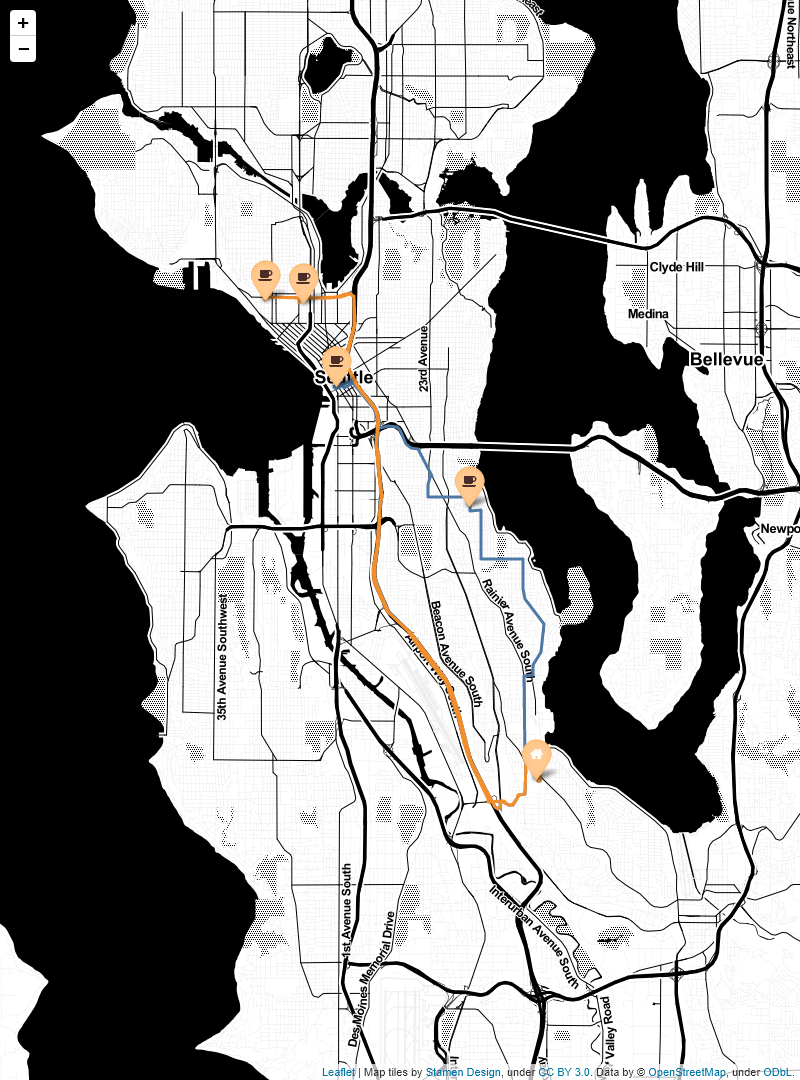
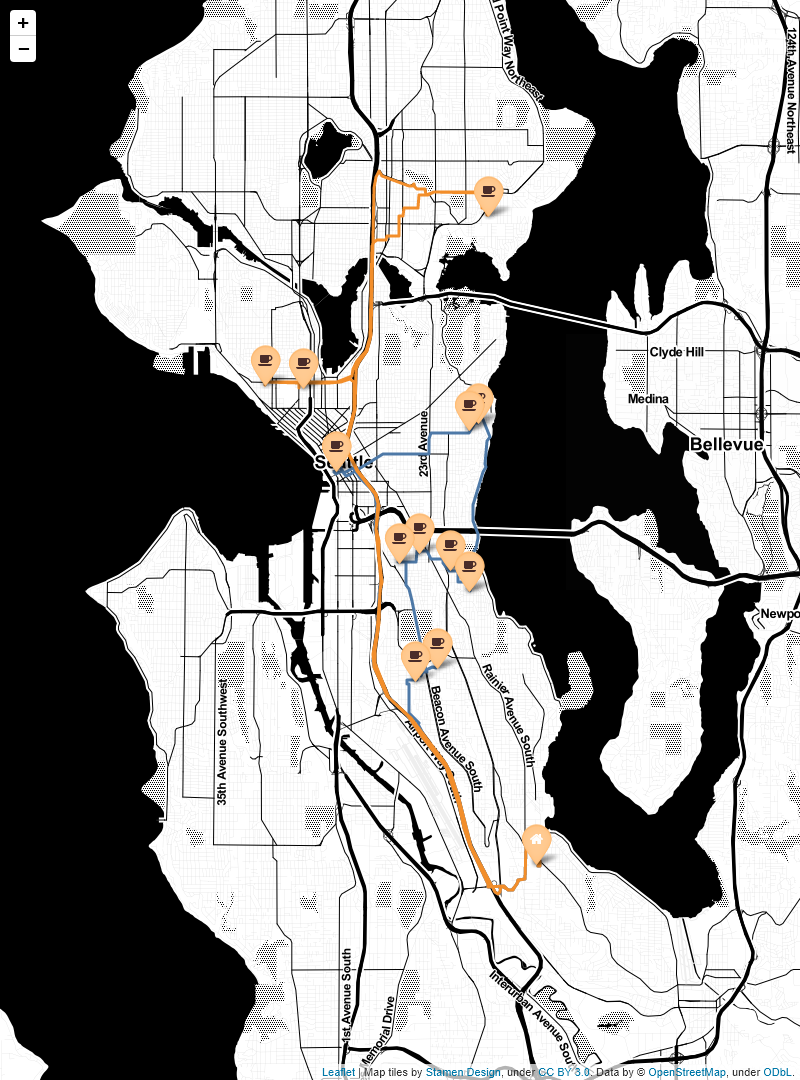
Add more example data

diff --git a/gocheche/router.py b/gocheche/router.py
@@ -120,7 +120,8 @@ def get_routing_solution(
     # Setting first solution heuristic.
     search_parameters = pywrapcp.DefaultRoutingSearchParameters()
     search_parameters.first_solution_strategy = (
-        routing_enums_pb2.FirstSolutionStrategy.PATH_CHEAPEST_ARC)
+        routing_enums_pb2.FirstSolutionStrategy.PATH_CHEAPEST_ARC
+    )
 
     # Solve the problem.
     solution = routing.SolveWithParameters(search_parameters)
